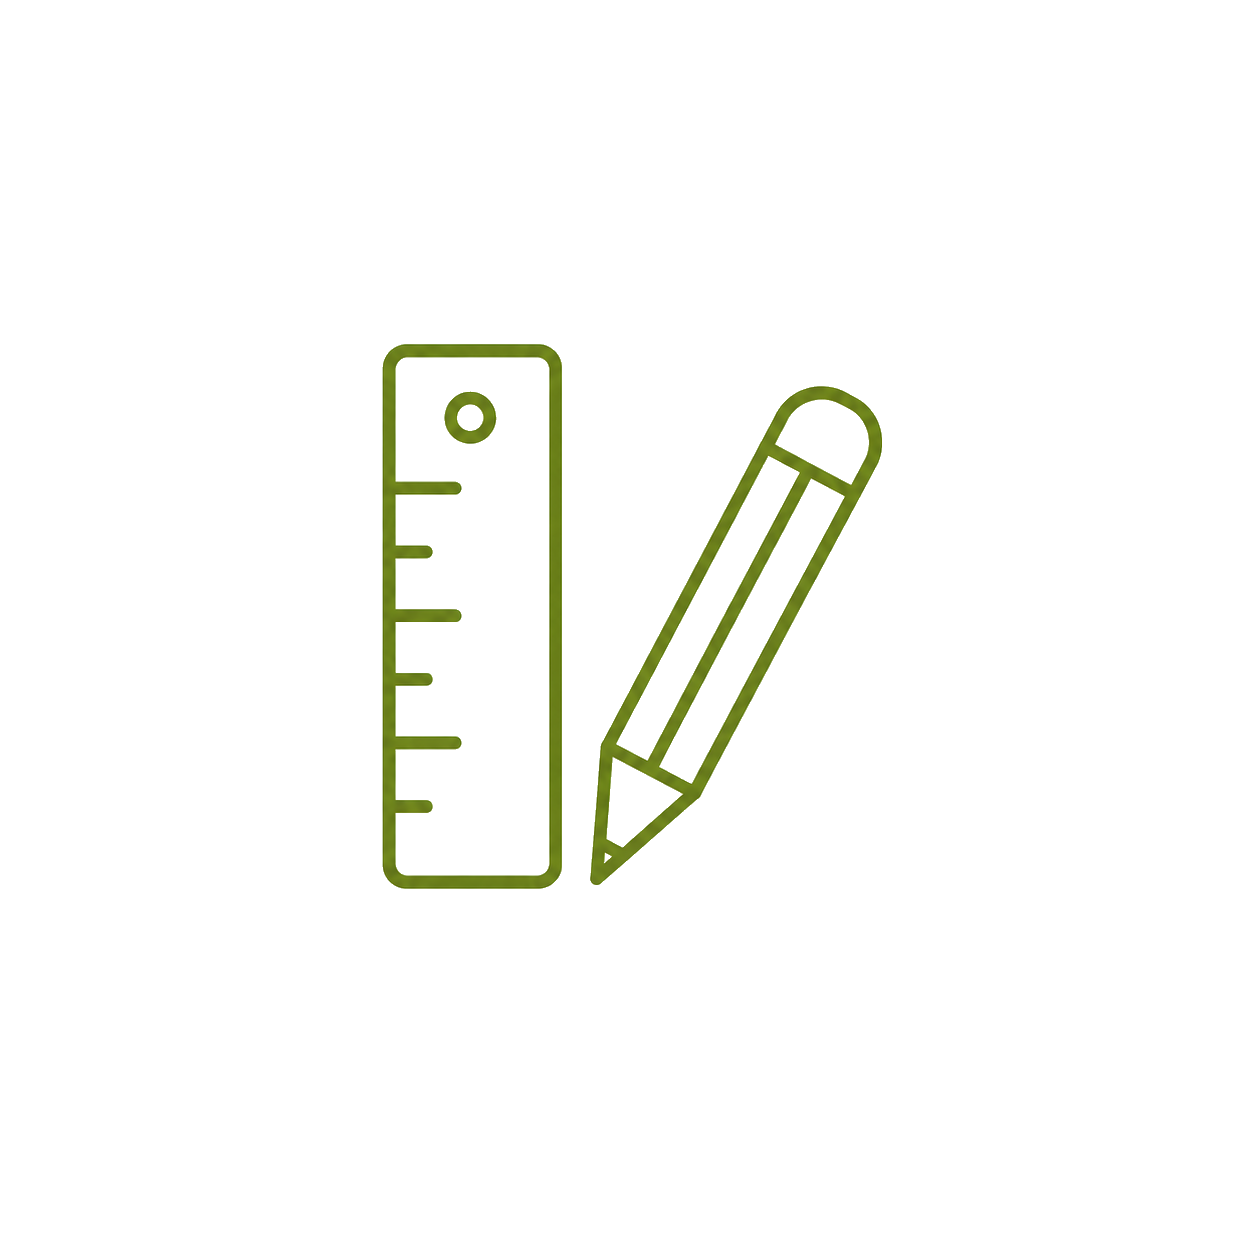
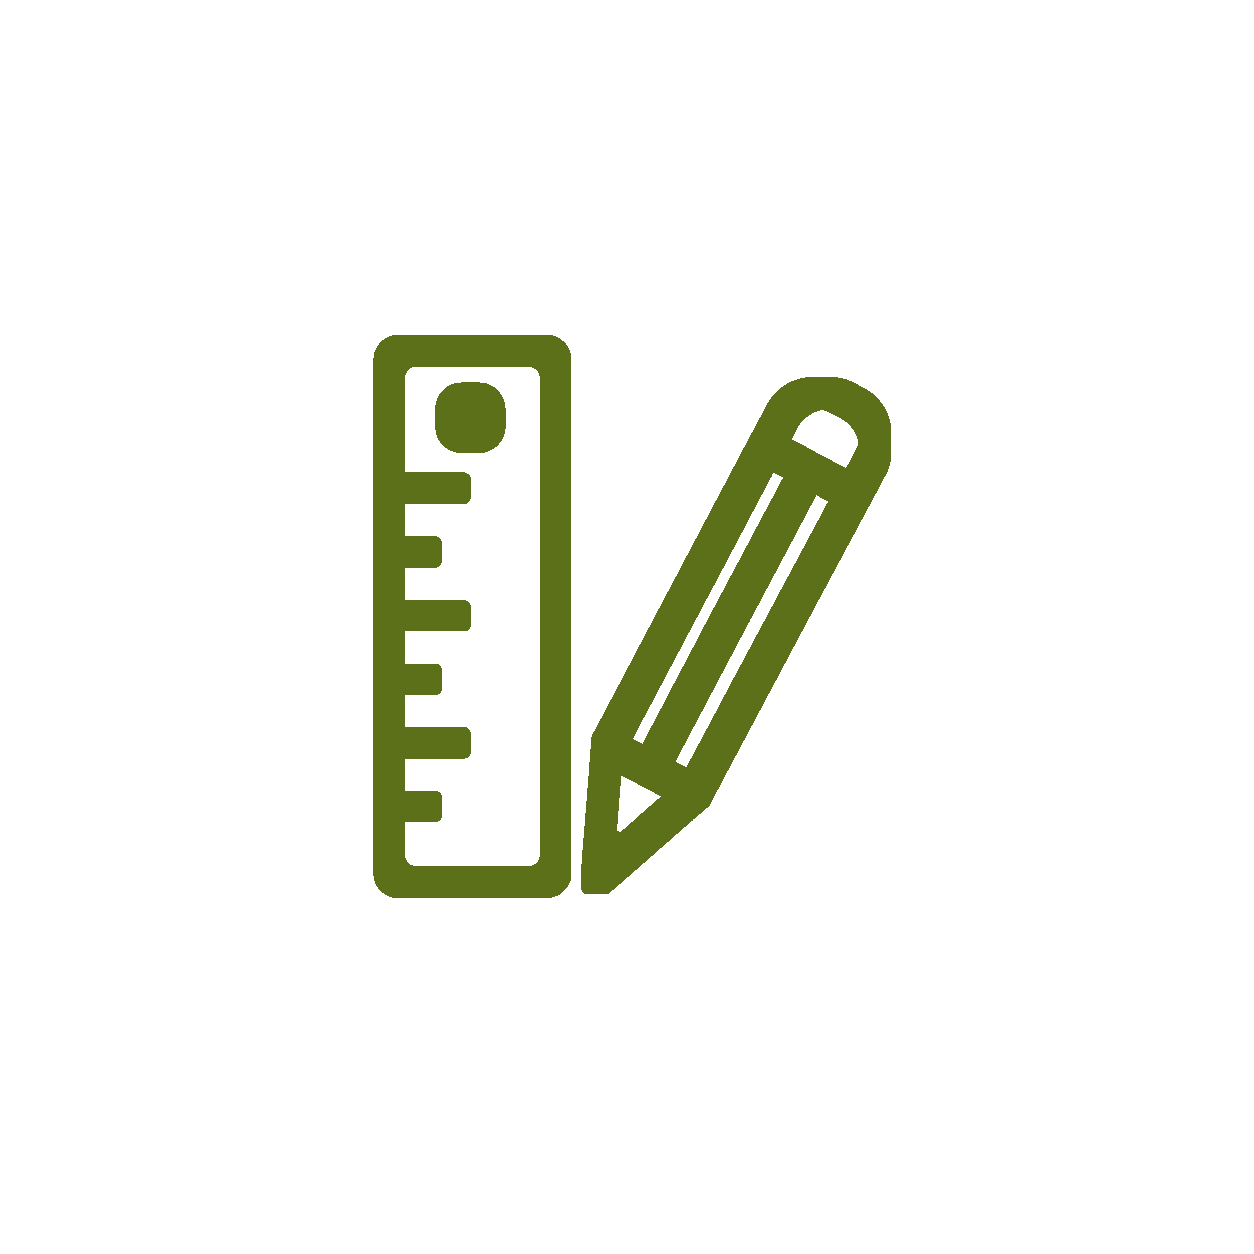
style: refine repair cards mobile layout

Changed region(s): [[0.2799, 0.2488, 0.7153, 0.7153]]

diff --git a/src/styles/main.css b/src/styles/main.css
@@ -115,7 +115,9 @@ h3 {
   font-family: 'Cormorant Garamond', serif;
   font-weight: 600;
   line-height: 1.08;
-  overflow-wrap: anywhere;
+  overflow-wrap: normal;
+  text-wrap: balance;
+  word-break: normal;
 }
 
 h1 {
@@ -620,9 +622,10 @@ a {
   position: relative;
   display: grid;
   gap: 14px;
-  justify-items: start;
+  justify-items: stretch;
   align-content: start;
   min-height: 560px;
+  padding-top: 0;
   overflow: hidden;
 }
 
@@ -630,8 +633,10 @@ a {
   content: '';
   position: absolute;
   inset: 0 0 auto;
-  height: 128px;
-  background: linear-gradient(135deg, rgba(184, 102, 69, 0.16), rgba(111, 117, 88, 0.14));
+  height: 142px;
+  background:
+    radial-gradient(circle at 22% 18%, rgba(250, 247, 240, 0.7), transparent 36%),
+    linear-gradient(135deg, rgba(184, 102, 69, 0.18), rgba(111, 117, 88, 0.16));
   pointer-events: none;
 }
 
@@ -639,21 +644,21 @@ a {
   position: relative;
   display: grid;
   place-items: center;
-  width: 154px;
-  height: 154px;
-  margin: -46px 0 -6px;
-  border-radius: 28px;
-  background: radial-gradient(circle, rgba(250, 247, 240, 0.9), rgba(250, 247, 240, 0.22) 68%);
+  width: 100%;
+  height: 142px;
+  margin: 0 0 2px;
+  border-radius: 18px;
+  background: radial-gradient(circle, rgba(250, 247, 240, 0.82), rgba(250, 247, 240, 0.18) 68%);
   z-index: 1;
 }
 
 .repair-price-icon img {
   display: block;
-  width: 126px;
-  height: 126px;
+  width: 132px;
+  height: 132px;
   object-fit: contain;
-  filter: saturate(1.65) contrast(1.28) brightness(0.94)
-    drop-shadow(0 10px 16px rgba(47, 48, 42, 0.16));
+  filter: saturate(1.95) contrast(1.42) brightness(0.9)
+    drop-shadow(0 11px 14px rgba(47, 48, 42, 0.2));
 }
 
 .repair-price-ribbon {
@@ -1900,7 +1905,7 @@ textarea {
   }
 
   h2 {
-    max-width: 15ch;
+    max-width: none;
   }
 
   .hero-grid {
@@ -1931,9 +1936,9 @@ textarea {
   }
 
   .quiz-copy h2 {
-    max-width: 11ch;
-    font-size: clamp(1.9rem, 10vw, 2.45rem);
-    line-height: 0.98;
+    max-width: none;
+    font-size: clamp(1.78rem, 8.5vw, 2.35rem);
+    line-height: 1.04;
   }
 
   .quiz-copy > p:not(.eyebrow) {
@@ -2046,10 +2051,14 @@ textarea {
   .service-reviews-grid,
   .scenario-format-grid,
   .scenario-stats,
-  .repair-price-grid,
   .faq-reviews-grid,
   .footer-grid {
     grid-template-columns: 1fr;
+  }
+
+  .repair-price-grid {
+    grid-template-columns: repeat(2, minmax(0, 1fr));
+    gap: 10px;
   }
 
   .metric-card,
@@ -2066,6 +2075,66 @@ textarea {
   .service-scope-card,
   .repair-price-card {
     min-height: auto;
+  }
+
+  .repair-price-card {
+    gap: 9px;
+    padding: 0 12px 14px;
+    border-radius: 16px;
+  }
+
+  .repair-price-card-exclusive {
+    grid-column: 1 / -1;
+  }
+
+  .repair-price-card::before {
+    height: 104px;
+  }
+
+  .repair-price-icon {
+    height: 104px;
+    margin-bottom: 0;
+    border-radius: 14px;
+  }
+
+  .repair-price-icon img {
+    width: 96px;
+    height: 96px;
+    filter: saturate(1.95) contrast(1.42) brightness(0.9)
+      drop-shadow(0 8px 10px rgba(47, 48, 42, 0.2));
+  }
+
+  .repair-price-card h3 {
+    margin-bottom: 2px;
+    font-size: clamp(1.16rem, 6vw, 1.45rem);
+    line-height: 1.04;
+  }
+
+  .repair-price-ribbon {
+    padding: 7px 9px;
+    border-radius: 12px;
+    font-size: 0.72rem;
+    line-height: 1.2;
+  }
+
+  .repair-price-card ul {
+    gap: 6px;
+  }
+
+  .repair-price-card li {
+    padding-left: 15px;
+    font-size: 0.75rem;
+    line-height: 1.35;
+  }
+
+  .repair-price-card li:nth-child(n + 4) {
+    display: none;
+  }
+
+  .repair-price-card li::before {
+    top: 0.62em;
+    width: 5px;
+    height: 5px;
   }
 
   .service-about-item summary {